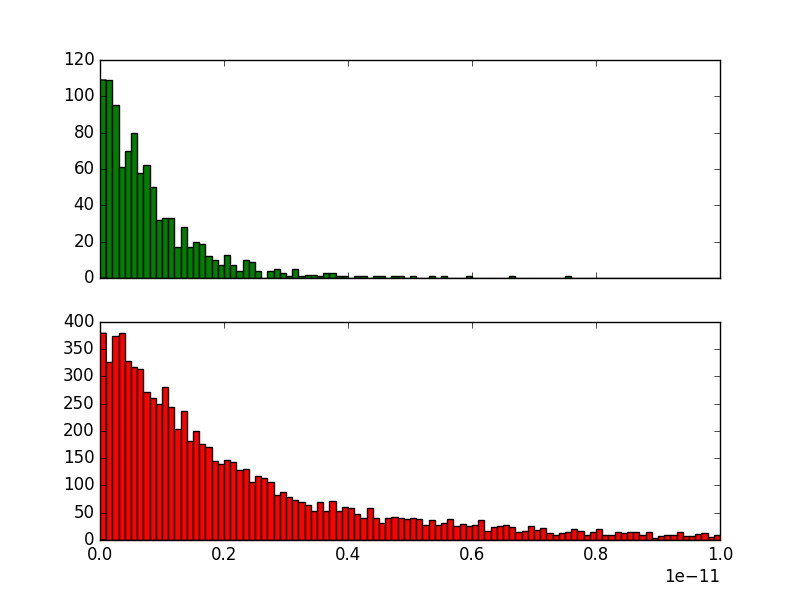
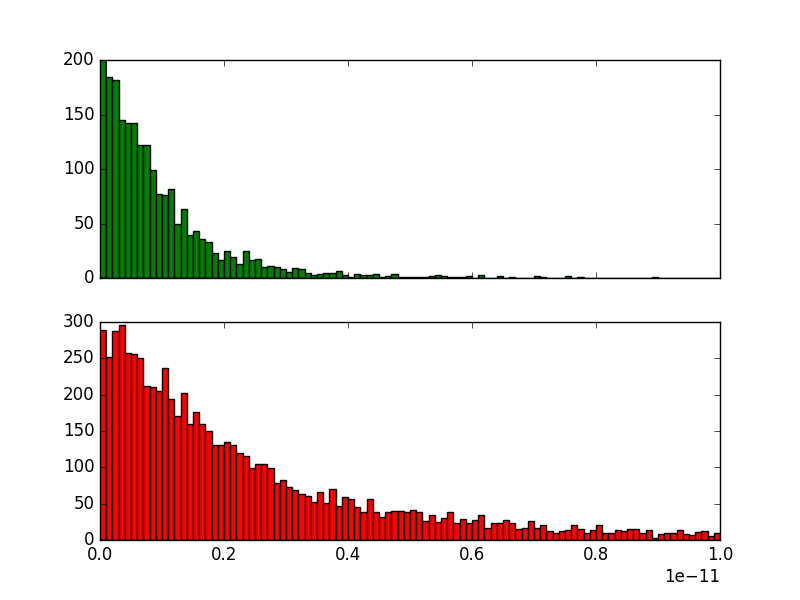
Compound cuts and background lifetime correction
Consider asymmetrically around the peak, apply cuts and overestimate
effect of background.

diff --git a/Code/CutModel.py b/Code/CutModel.py
@@ -12,7 +12,7 @@ print('mass', mass, mass*1e-6*c**2 / e, time, time*1e15)
 
 
 # cut on mass diff
-filtered, rejected, po_cut_data, data_bin_width = cutEventSet_massDiff(data)
+filtered, rejected, po_cut_data, data_bin_width = cutEventSet_massDiff(data, 4.)
 bg, sig = po_cut_data[:2], po_cut_data[2:]
 
 # fit the initial cut's rejected data
@@ -34,10 +34,11 @@ print(po)
 
 plot_compare(filtered, rejected, 'decayTime', 'decay-BEFORE', (0,10e-12))
 
-# filtered, rejected = cut(filtered, rejected, lambda d: 2500 <= d.pD0_t <= 20000)
-# filtered, rejected = cut(filtered, rejected, lambda d: 300 <= d.pPslow_t)
-# filtered, rejected = cut(filtered, rejected, lambda d: 2000 <= d.pPslow)
-# plot_compare(filtered, rejected, 'decayTime', 'decay-AFTER', (0,10e-12))
+filtered, rejected = cut(filtered, rejected, lambda d: 2500 <= d.pD0_t <= 20000)
+filtered, rejected = cut(filtered, rejected, lambda d: 140 <= d.pPslow_t)
+filtered, rejected = cut(filtered, rejected, lambda d: 2000 <= d.pPslow)
+plot_compare(filtered, rejected, 'decayTime', 'decay-AFTER', (0,10e-12))
+
 
 newfig()
 pl.semilogy(time, hist, 'or')
@@ -56,17 +57,21 @@ def expected_background_number(dm):
 	return background_fit(dm, *bg)/data_bin_width
 
 sig_centre, sig_w = po_cut_data[3], po_cut_data[4]
-width = 1.
-range_low, range_up = sig_centre - sig_w*width, sig_centre + sig_w*width
+# PARAMS
+width = .75
+offset = +.8*width
+num_bins = 10
+range_low, range_up = offset+sig_centre - sig_w*width, offset+sig_centre + sig_w*width
 
-print(range_low, range_up)
+print('RANGE', range_low, range_up)
 
 # all events we consider in the range
 events = [d for d in filtered if range_low <= d.massDiff_d0dstar <= range_up and 1e-13 <= d.decayTime <= 1e-11]
+print('events', len(events))
 # array of md's
 diffs = [d.massDiff_d0dstar for d in events]
 # hist of dm's
-hist, bin_edges = np.histogram(diffs, bins=10)
+hist, bin_edges = np.histogram(diffs, bins=num_bins)
 # central dm vals
 dms = np.array([np.mean([d0, d1]) for d0, d1 in zip(bin_edges[:-1], bin_edges[1:])])
 dm_width = dms[1]-dms[0]
@@ -76,17 +81,25 @@ diff_events = np.array([[x for x in events if d0 <= x.massDiff_d0dstar < d1] for
 N_b = expected_background_number(dms)*dm_width
 N_s = expected_signal_number(dms)*dm_width
 N = N_b + N_s
-tau_m_event = np.array([np.mean([d.decayTime for d in event])*1e12 for event in diff_events])
+tau_m_event = []
+for dm_mean, events in zip(dms, diff_events):
+	hist, bin_edges = np.histogram([e.decayTime*1e12 for e in events], bins=20)
+	time = bin_edges[1:]
+	po, po_conv = spo.curve_fit(lambda t, A, tau, c: A * np.exp(-t/tau)+c, time, hist, [len(rejected), 1.5, 0])
+	tau_m_event.append(po[1])
+
+tau_m_event = np.array(tau_m_event)
 
 a_b = (N * tau_m_event - N_b * tau_b) / N_s
-# taus = tau_b * (N_b / N_s) * a_b
+weights = N / N_b
 
 print(N_b, sum(N_b))
 print(N_s, sum(N_s))
 print(tau_m_event)
 print(tau_b)
 print(a_b)
-print(np.average(a_b))
+print(weights)
+print(np.average(a_b, weights=weights))
 
 
 # fig, ax = newfig()

diff --git a/Code/Lifetime.py b/Code/Lifetime.py
@@ -265,7 +265,7 @@ def combined_fit(dm, bg_A, bg_p, sig_A, sig_centre, sig_w):
 
 
 # takes list of candidate events, cuts them by their mass diff
-def cutEventSet_massDiff(events):
+def cutEventSet_massDiff(events, width):
 
 	initial = [20, 0.25, 220, 146, 2]
 # 	initial = [10, 0.25, 220, 146, 2]
@@ -288,7 +288,6 @@ def cutEventSet_massDiff(events):
 
 	# cut at 4 widths
 	bg_A, bg_p, sig_A, sig_centre, sig_w = po
-	width = 3.
 	range_low, range_up = sig_centre - sig_w*width, sig_centre + sig_w*width
 	print('range', range_low, range_up)
 	accepted = [event for event in events if range_low <= event.massDiff_d0dstar <= range_up]

diff --git a/Code/Cuts.py b/Code/Cuts.py
@@ -8,12 +8,9 @@ mass, time = d.reconstructedD0Mass, d.decayTime
 print('mass', mass, mass*1e-6*c**2 / e, time, time*1e15)
 
 
-
-
-
 filtered = data
 # cut on mass diff
-filtered, rejected, po, bin_width = cutEventSet_massDiff(filtered)
+filtered, rejected, po, bin_width = cutEventSet_massDiff(filtered, 1.)
 
 
 newfig()
